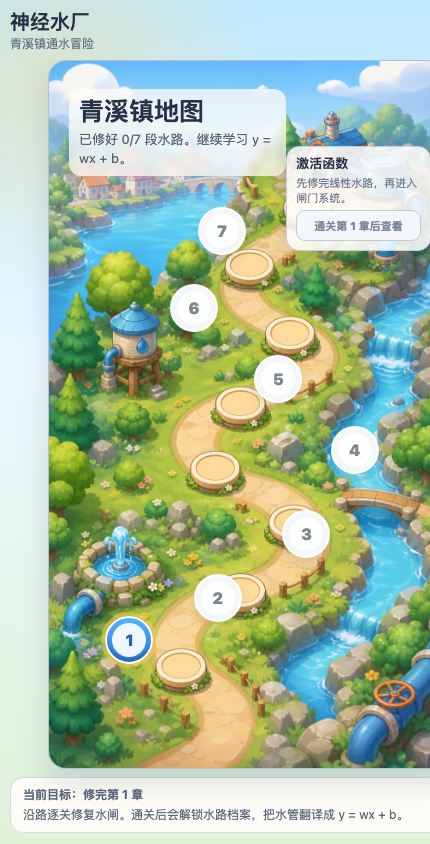
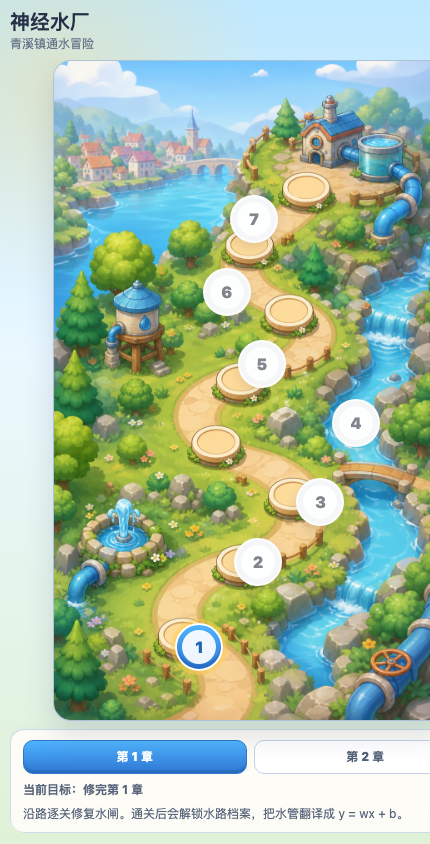
Refine chapter map layout

diff --git a/index.html b/index.html
@@ -485,7 +485,7 @@
       position: relative;
       align-self: center;
       justify-self: center;
-      width: min(100%, calc((100dvh - 126px) * .563));
+      width: min(calc(100vw - 20px), calc((100dvh - 145px) * .563), 520px);
       max-width: 520px;
       max-height: 100%;
       aspect-ratio: 941 / 1672;
@@ -505,7 +505,12 @@
       object-fit: cover;
     }
 
+    body[data-map-chapter="2"] .map-art {
+      filter: hue-rotate(38deg) saturate(.92) brightness(1.02);
+    }
+
     .map-title {
+      display: none;
       position: absolute;
       left: 5%;
       top: 4%;
@@ -597,15 +602,16 @@
       outline: 4px solid rgba(255, 207, 74, .46);
     }
 
-    .map-level.l1 { left: 20%; top: 82%; }
-    .map-level.l2 { left: 42%; top: 76%; }
-    .map-level.l3 { left: 64%; top: 67%; }
-    .map-level.l4 { left: 76%; top: 55%; }
-    .map-level.l5 { left: 57%; top: 45%; }
-    .map-level.l6 { left: 36%; top: 35%; }
-    .map-level.l7 { left: 43%; top: 24%; }
+    .map-level.l1 { left: 37%; top: 89%; }
+    .map-level.l2 { left: 52%; top: 76%; }
+    .map-level.l3 { left: 68%; top: 67%; }
+    .map-level.l4 { left: 77%; top: 55%; }
+    .map-level.l5 { left: 53%; top: 46%; }
+    .map-level.l6 { left: 44%; top: 35%; }
+    .map-level.l7 { left: 51%; top: 24%; }
 
     .chapter-gate {
+      display: none !important;
       position: absolute;
       right: 5%;
       top: 12%;
@@ -616,7 +622,6 @@
       border-radius: 13px;
       background: rgba(255, 255, 255, .86);
       box-shadow: 0 10px 20px rgba(38, 48, 71, .14);
-      display: grid;
       gap: 5px;
     }
 
@@ -643,8 +648,8 @@
 
     .map-footer {
       display: grid;
-      gap: 4px;
-      padding: 9px 12px;
+      gap: 8px;
+      padding: 10px 12px;
       border: 1px solid rgba(201, 215, 234, .9);
       border-radius: 14px;
       background: rgba(255, 253, 248, .92);
@@ -652,6 +657,42 @@
       font-size: 12px;
       line-height: 1.35;
       box-shadow: 0 8px 18px rgba(38, 48, 71, .08);
+    }
+
+    .chapter-switch {
+      display: grid;
+      grid-template-columns: 1fr 1fr;
+      gap: 7px;
+    }
+
+    .chapter-switch button {
+      min-width: 0;
+      min-height: 34px;
+      border: 1px solid #c2d2e8;
+      border-radius: 10px;
+      background: #ffffff;
+      color: #526178;
+      cursor: pointer;
+      font-size: 12px;
+      font-weight: 860;
+      overflow: hidden;
+      text-overflow: ellipsis;
+      white-space: nowrap;
+    }
+
+    .chapter-switch button.active {
+      border-color: #2d78c6;
+      background: linear-gradient(180deg, #4fb4ff, #2e76d2);
+      color: #ffffff;
+      box-shadow: inset 0 -3px 0 rgba(23, 73, 132, .25);
+    }
+
+    body[data-map-chapter="2"] .map-level {
+      background: linear-gradient(180deg, #8b7cf6, #4f46e5);
+    }
+
+    body[data-map-chapter="2"] .map-level strong {
+      color: #4f46e5;
     }
 
     .level-strip {
@@ -1780,6 +1821,10 @@
         </div>
       </div>
       <div class="map-footer">
+        <div class="chapter-switch">
+          <button class="active" data-map-chapter="1">第 1 章</button>
+          <button data-map-chapter="2">第 2 章</button>
+        </div>
         <strong id="mapFooterTitle">当前目标：修完第 1 章</strong>
         <span id="mapFooterText">通关后会解锁水路档案，把游戏里的水管翻译成 y = wx + b。</span>
       </div>
@@ -2181,6 +2226,7 @@
       reportOpen: false,
       clearOpen: false,
       summaryOpen: false,
+      mapChapter: 1,
       lastClearStars: 0
     };
 
@@ -2189,6 +2235,7 @@
       gameStage: document.getElementById("gameStage"),
       mapBtn: document.getElementById("mapBtn"),
       mapLevelButtons: Array.from(document.querySelectorAll("[data-map-level]")),
+      mapChapterButtons: Array.from(document.querySelectorAll("[data-map-chapter]")),
       chapterOneStatus: document.getElementById("chapterOneStatus"),
       chapterTwoNode: document.getElementById("chapterTwoNode"),
       chapterTwoBtn: document.getElementById("chapterTwoBtn"),
@@ -2252,22 +2299,48 @@
       return index === -1 ? 0 : index;
     }
 
+    const chapterTwoPreview = [
+      "止回阀",
+      "限流阀",
+      "软闸门",
+      "S 形水门",
+      "分流池"
+    ];
+
     function renderChapterMap() {
       const passed = passedCount();
       const complete = chapterOneComplete();
+      const showingChapterTwo = state.mapChapter === 2;
+      document.body.dataset.mapChapter = String(state.mapChapter);
       el.progressCount.textContent = `${passed}/${levels.length}`;
-      el.chapterOneStatus.textContent = complete
-        ? "第 1 章完成：线性水路档案已解锁。"
-        : `已修好 ${passed}/${levels.length} 段水路。继续学习 y = wx + b。`;
+      el.chapterOneStatus.textContent = showingChapterTwo
+        ? "第 2 章会学习闸门怎样改变水流。"
+        : (complete ? "第 1 章完成：线性水路档案已解锁。" : `已修好 ${passed}/${levels.length} 段水路。继续学习 y = wx + b。`);
+      el.mapChapterButtons.forEach(button => {
+        button.classList.toggle("active", Number(button.dataset.mapChapter) === state.mapChapter);
+      });
       el.mapLevelButtons.forEach(button => {
         const index = Number(button.dataset.mapLevel);
         const level = levels[index];
+        if (showingChapterTwo) {
+          const label = chapterTwoPreview[index];
+          button.hidden = !label;
+          button.disabled = true;
+          button.classList.add("locked");
+          button.classList.remove("done", "active");
+          button.querySelector("strong").textContent = String(index + 1);
+          button.querySelector("span").textContent = label || "";
+          return;
+        }
+        button.hidden = false;
         const unlocked = isLevelUnlocked(index);
         const done = Boolean(level && state.progress[level.id] > 0);
         button.disabled = !unlocked;
         button.classList.toggle("locked", !unlocked);
         button.classList.toggle("done", done);
         button.classList.toggle("active", index === nextChapterOneLevel() && !complete);
+        button.querySelector("strong").textContent = String(index + 1);
+        button.querySelector("span").textContent = level.title;
       });
       el.chapterTwoNode.classList.toggle("locked", true);
       el.chapterTwoBtn.disabled = true;
@@ -2275,10 +2348,15 @@
       el.chapterTwoStatus.textContent = complete
         ? "下一章会从止回阀、限流阀开始，再过渡到 softmax 分流。"
         : "先修完线性水路，再进入闸门系统。";
-      el.mapFooterTitle.textContent = complete ? "第 1 章完成：水路档案已解锁" : "当前目标：修完第 1 章";
-      el.mapFooterText.textContent = complete
-        ? "你已经学会 y = wx + b。下一步会学习闸门怎样让水路变成非直线规则。"
-        : "沿路逐关修复水闸。通关后会解锁水路档案，把水管翻译成 y = wx + b。";
+      if (showingChapterTwo) {
+        el.mapFooterTitle.textContent = "第 2 章设计稿：激活函数";
+        el.mapFooterText.textContent = "下一章会把闸门做成关卡：止回阀对应 ReLU，限流和软闸门帮助理解非直线变化，最后再过渡到 softmax 分流。";
+      } else {
+        el.mapFooterTitle.textContent = complete ? "第 1 章完成：水路档案已解锁" : "当前目标：修完第 1 章";
+        el.mapFooterText.textContent = complete
+          ? "你已经学会 y = wx + b。下一步会学习闸门怎样让水路变成非直线规则。"
+          : "沿路逐关修复水闸。通关后会解锁水路档案，把水管翻译成 y = wx + b。";
+      }
     }
 
     function showMap() {
@@ -2942,9 +3020,16 @@
     el.mapBtn.addEventListener("click", showMap);
     el.mapLevelButtons.forEach(button => {
       button.addEventListener("click", () => {
+        if (state.mapChapter !== 1) return;
         const index = Number(button.dataset.mapLevel);
         if (!isLevelUnlocked(index)) return;
         showGame(index);
+      });
+    });
+    el.mapChapterButtons.forEach(button => {
+      button.addEventListener("click", () => {
+        state.mapChapter = Number(button.dataset.mapChapter);
+        renderChapterMap();
       });
     });
     el.summaryReplayBtn.addEventListener("click", () => showGame(0));
@@ -2954,7 +3039,11 @@
     el.introSkipBtn.addEventListener("click", hideWelcome);
     renderIntro();
     loadLevel(0);
-    if (urlParams.get("map") === "1") {
+    if (urlParams.get("map") === "2") {
+      state.mapChapter = 2;
+      hideWelcome();
+      showMap();
+    } else if (urlParams.get("map") === "1") {
       hideWelcome();
       showMap();
     } else if (urlParams.get("play") === "1") {
